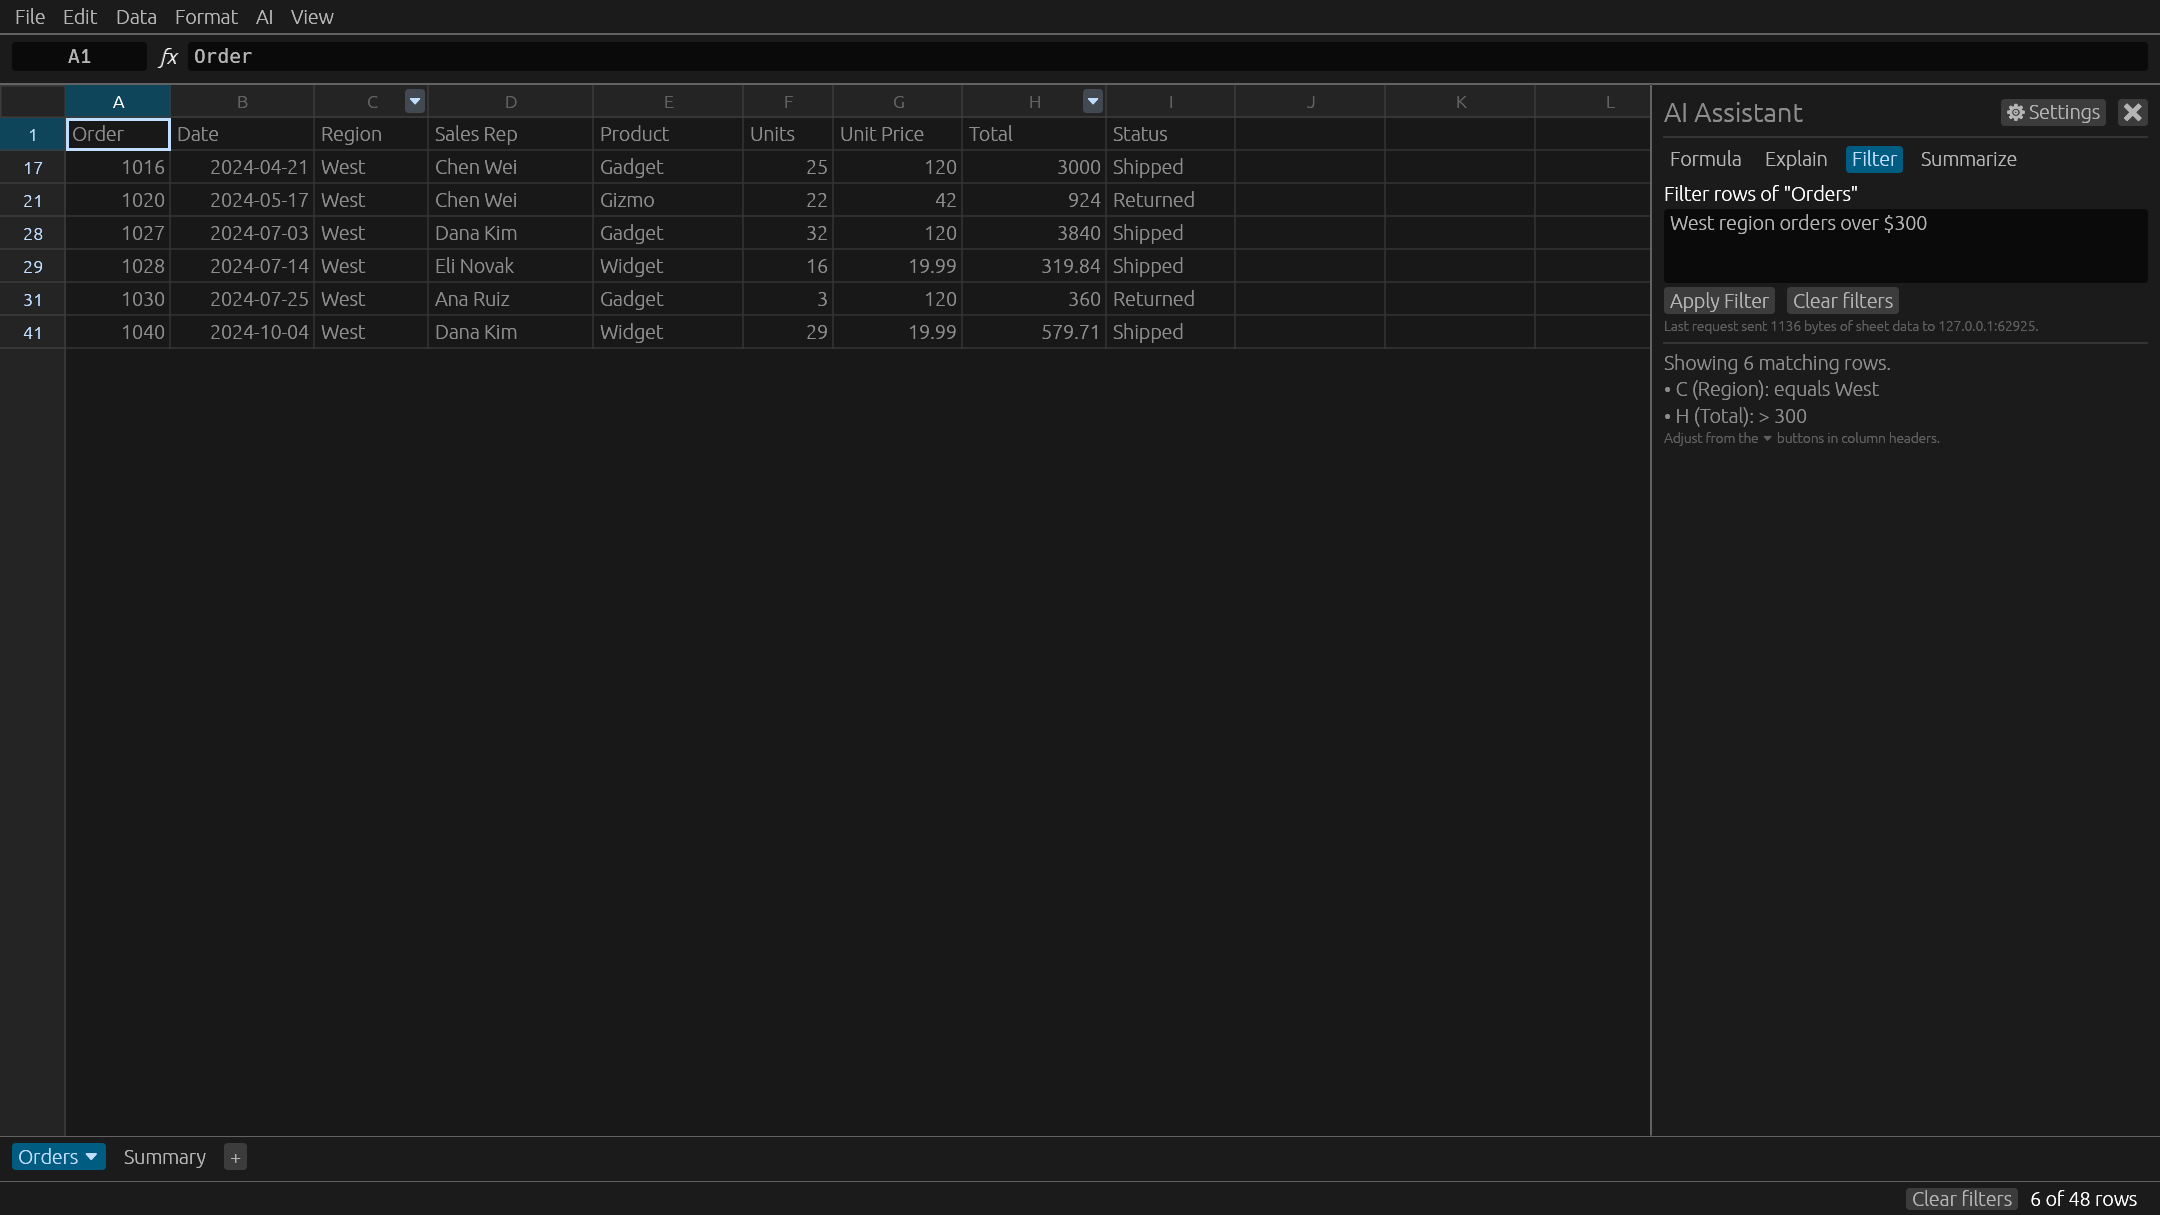
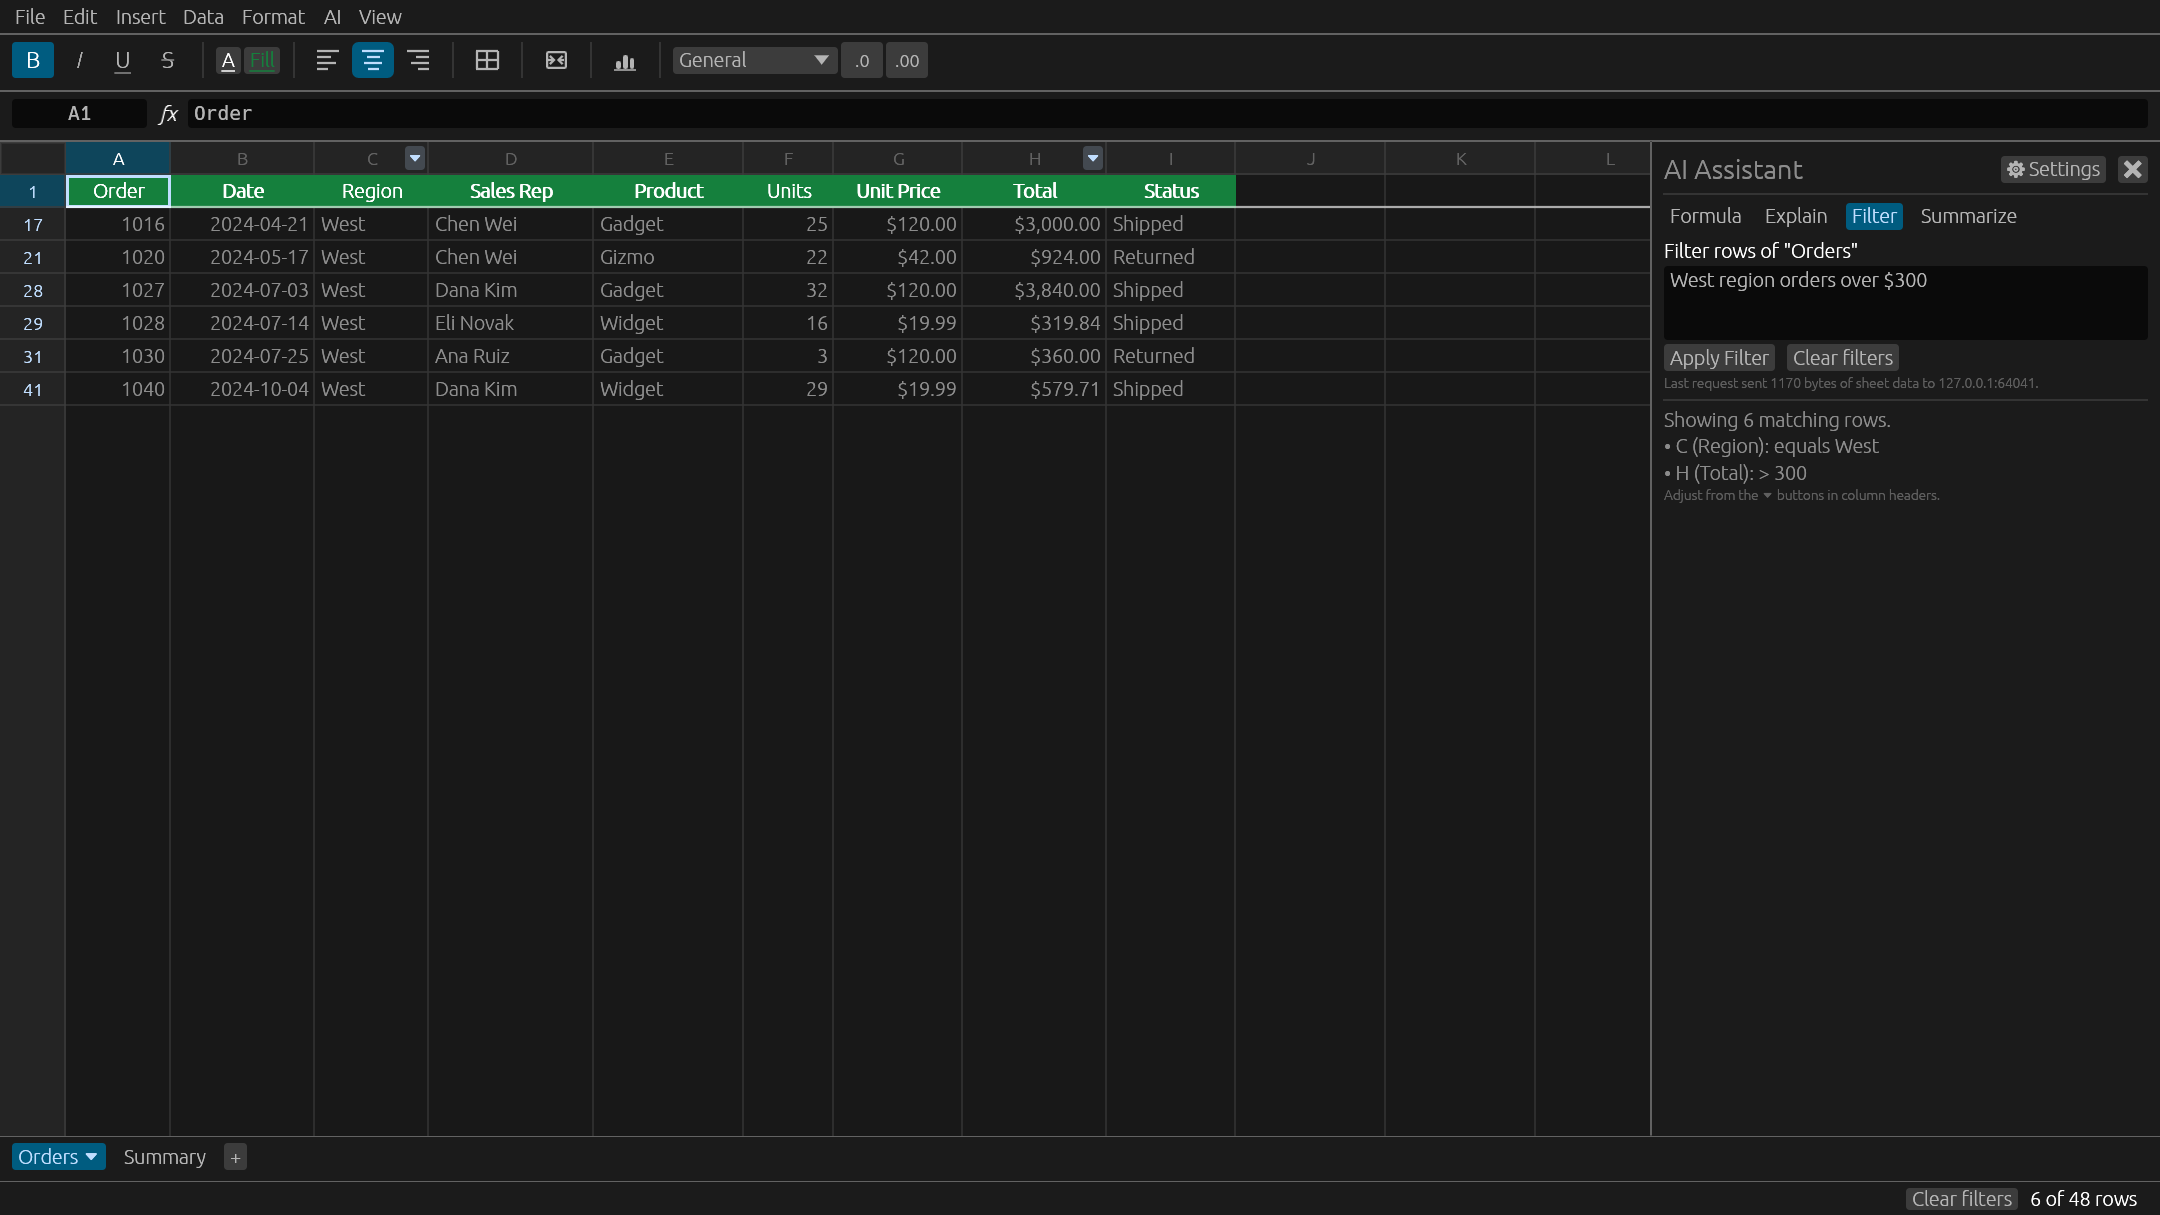
Refresh screenshots, sample workbook and website
The sample workbook now has a styled, frozen header row, currency
columns, a bold totals row and a revenue chart on the Summary sheet. All
README screenshots are regenerated with the formatting toolbar, plus new
Charts and Formatting screenshots, and the website's showcase and
feature cards cover charts and styling.

Changed region(s): [[0.0, 0.0, 1.0, 0.4263]]

diff --git a/site/index.html b/site/index.html
@@ -215,8 +215,8 @@
       </div>
       <div class="card">
         <div class="ico"><svg viewBox="0 0 24 24" fill="none" stroke="currentColor" stroke-width="2" stroke-linecap="round" stroke-linejoin="round"><path d="M3 7v6h6"/><path d="M21 17a9 9 0 0 0-15-6.7L3 13"/></svg></div>
-        <h3>Edit without fear</h3>
-        <p>200 levels of undo for everything: typing, paste, fill and sort. Copy and paste works with Excel and Numbers.</p>
+        <h3>Looks the part</h3>
+        <p>Bold, colours, borders, merged cells, frozen headers and currency or date formats, all kept when you open and save Excel files.</p>
       </div>
       <div class="card">
         <div class="ico"><svg viewBox="0 0 24 24" fill="none" stroke="currentColor" stroke-width="2" stroke-linecap="round" stroke-linejoin="round"><rect x="3" y="11" width="18" height="11" rx="2"/><path d="M7 11V7a5 5 0 0 1 10 0v4"/></svg></div>
@@ -257,11 +257,15 @@
     </div>
     <div class="row">
       <div class="text">
-        <div class="eyebrow">Workbooks</div>
-        <h3>Many sheets, one workbook</h3>
-        <p>Add, rename and switch sheets with tabs, and link them with formulas like <code>=SUMIF(Orders!C2:C49, A2, Orders!H2:H49)</code>. Select any range to see its sum, average and count.</p>
+        <div class="eyebrow">Charts</div>
+        <h3>Charts that keep up</h3>
+        <p>Turn a selection into a column, bar, line, area, pie or scatter chart with a live preview. Charts update as your numbers change, can be moved and resized on the sheet, and are saved as real Excel charts.</p>
+        <ul>
+          <li>Series names and categories are detected for you</li>
+          <li>Link sheets with formulas like <code>=SUMIF(Orders!C2:C49, A2, Orders!H2:H49)</code></li>
+        </ul>
       </div>
-      <img class="shot" src="screenshots/multiple-sheets.png" alt="A summary sheet built from formulas that reference another sheet" width="2160" height="1215" loading="lazy">
+      <img class="shot" src="screenshots/charts.png" alt="A column chart of revenue by region next to a summary table" width="2160" height="1215" loading="lazy">
     </div>
   </div>
 </section>

diff --git a/src/ui/tests/docs_assets.rs b/src/ui/tests/docs_assets.rs
@@ -14,7 +14,7 @@ use image::{Rgba, RgbaImage};
 use super::{mock_ai_server, wait_for_ai};
 use crate::ai::Task;
 use crate::model::filter::{ColumnFilter, Condition, Op};
-use crate::model::{Book, NumFmt, interpret_input};
+use crate::model::{Book, Cell, NumFmt, Style, interpret_input};
 use crate::ui::Selection;
 use crate::ui::app::{App, CELL_EDITOR_ID, EditState};
 
@@ -44,6 +44,8 @@ fn generate_docs_assets() {
     ai_formula();
     ai_filter();
     ai_summary();
+    charts();
+    formatting();
 }
 
 /* ------------------------------ sample data ------------------------------ */
@@ -166,9 +168,74 @@ pub fn sample_book() -> Book {
     for (c, w) in [110.0, 110.0, 80.0, 100.0].iter().enumerate() {
         book.sheets[1].col_widths.insert(c as u32, *w);
     }
+    style_sample(&mut book);
     book.dirty = false;
     book.path = Some(PathBuf::from("sales.xlsx"));
     book
+}
+
+/// Give the sample the finish a real workbook would have: styled, frozen
+/// headers, currency columns, a highlighted total and a chart.
+fn style_sample(book: &mut Book) {
+    use crate::model::{Borders, Chart, ChartKind, Currency, Freeze, HAlign, Rgb};
+    let header = Style {
+        bold: true,
+        color: Some(Rgb::WHITE),
+        fill: Some(Rgb(21, 128, 61)),
+        align: HAlign::Center,
+        ..Style::default()
+    };
+    let dollars = NumFmt::Currency {
+        decimals: 2,
+        symbol: Currency::Dollar,
+    };
+    let restyle =
+        |book: &mut Book, sheet: usize, positions: Vec<(u32, u32)>, f: &dyn Fn(&mut Cell)| {
+            let edits = positions
+                .into_iter()
+                .map(|p| {
+                    let mut cell = book.sheets[sheet]
+                        .cells
+                        .get(&p)
+                        .cloned()
+                        .unwrap_or_default();
+                    f(&mut cell);
+                    (sheet, p, Some(cell))
+                })
+                .collect();
+            book.apply("style", edits);
+        };
+    restyle(book, 0, (0..9).map(|c| (0, c)).collect(), &|c| {
+        c.style = header
+    });
+    restyle(
+        book,
+        0,
+        (1..49).flat_map(|r| [(r, 6), (r, 7)]).collect(),
+        &|c| c.fmt = dollars,
+    );
+    restyle(book, 1, (0..4).map(|c| (0, c)).collect(), &|c| {
+        c.style = header
+    });
+    restyle(
+        book,
+        1,
+        (1..6).flat_map(|r| [(r, 1), (r, 3)]).collect(),
+        &|c| c.fmt = dollars,
+    );
+    restyle(book, 1, (0..4).map(|c| (5, c)).collect(), &|c| {
+        c.style.bold = true;
+        c.style.borders = Borders {
+            top: true,
+            ..Borders::NONE
+        };
+    });
+    book.set_freeze(0, Freeze { rows: 1, cols: 0 });
+    let mut chart = Chart::from_block(&book.sheets[1], (0, 0), (4, 1), ChartKind::Column).unwrap();
+    chart.title = "Revenue by region".into();
+    chart.anchor = (0, 5);
+    chart.size = (440.0, 280.0);
+    book.set_charts(1, vec![chart], "chart");
 }
 
 /* ------------------------------ screenshots ------------------------------ */
@@ -256,7 +323,7 @@ fn filtering() {
     );
     h.state_mut().open_filter_popup(2);
     if let Some(p) = h.state_mut().filter_popup.as_mut() {
-        p.anchor = Some(pos2(196.0, 84.0));
+        p.anchor = Some(pos2(196.0, 122.0));
     }
     save(&mut h, "filtering");
 }
@@ -271,6 +338,24 @@ fn search() {
     h.state_mut().sel = Selection::single(matches[2]);
     h.state_mut().views[0].current_match = 2;
     save(&mut h, "search");
+}
+
+fn charts() {
+    let mut h = docs_harness(Theme::Light);
+    h.state_mut().switch_sheet(1);
+    h.state_mut().selected_chart = Some(0);
+    h.state_mut().sel = Selection::single((1, 1));
+    save(&mut h, "charts");
+}
+
+fn formatting() {
+    let mut h = docs_harness(Theme::Dark);
+    h.state_mut().sel = Selection {
+        anchor: (1, 6),
+        cursor: (12, 7),
+    };
+    h.get_by_label_contains("Fill").click();
+    save(&mut h, "formatting");
 }
 
 fn ai_harness(theme: Theme, task: Task, prompt: &str) -> Harness<'static, App> {

diff --git a/README.md b/README.md
@@ -108,6 +108,7 @@ Excel-compatible formulas, filtering and sorting, smooth scrolling through hundr
 
 | | |
 |---|---|
+| **Charts that update with your data**<br><img src="docs/screenshots/charts.png" alt="A column chart of revenue by region next to a summary table"> | **Formatting toolbar**<br><img src="docs/screenshots/formatting.png" alt="The fill colour palette open over currency-formatted columns in dark mode"> |
 | **Build formulas by pointing at cells**<br><img src="docs/screenshots/formula-editing.png" alt="Editing a SUMIF formula with the referenced range highlighted"> | **Several sheets, linked by formulas**<br><img src="docs/screenshots/multiple-sheets.png" alt="A summary sheet built with SUMIF and COUNTIF"> |
 | **Column filters**<br><img src="docs/screenshots/filtering.png" alt="The filter window for the Region column"> | **Find**<br><img src="docs/screenshots/search.png" alt="Search results highlighted in the grid"> |
 | **AI: generate a formula**<br><img src="docs/screenshots/ai-formula.png" alt="The AI panel generating a SUMIFS formula in dark mode"> | **AI: filter in plain English**<br><img src="docs/screenshots/ai-filter.png" alt="The AI panel turning a request into column filters"> |
@@ -166,7 +167,7 @@ Build a double-clickable `dist/LiteSheet.app` (add `--universal` for Apple Silic
 
 ## Using LiteSheet
 
-Try it on the bundled `samples/sales.xlsx`: an order list plus a summary sheet built with `SUMIF`, `COUNTIF` and `INDEX`/`MATCH`.
+Try it on the bundled `samples/sales.xlsx`: a styled order list with a frozen header row, plus a summary sheet built with `SUMIF`, `COUNTIF` and `INDEX`/`MATCH` and a chart.
 
 ### Keyboard shortcuts
 

diff --git a/CHANGELOG.md b/CHANGELOG.md
@@ -18,6 +18,7 @@ All notable changes to LiteSheet are documented here. The format follows [Keep a
 
 ### Changed
 
+- README screenshots, the website and `samples/sales.xlsx` show the new styling, frozen header and charts
 - Release builds are signed with a Developer ID and notarized when the Apple signing secrets are configured
 
 ### Fixed
